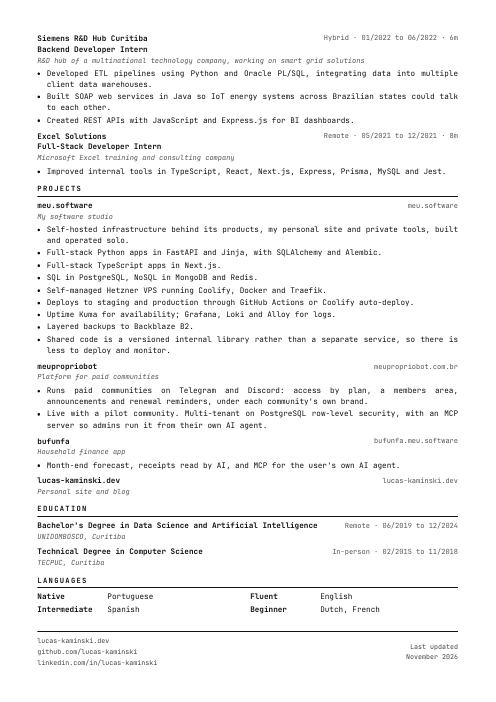
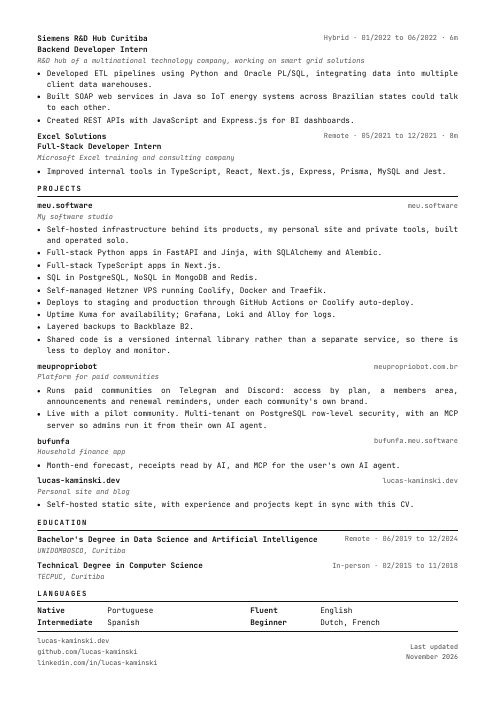
feat: bullet no projeto do site pessoal

Changed region(s): [[0.0605, 0.7179, 0.9375, 0.8974], [0.6351, 0.8376, 0.756, 0.8974], [0.4839, 0.8376, 0.5746, 0.8974]]

diff --git a/cv.html b/cv.html
@@ -186,6 +186,9 @@ building AI features in production, such as Bento's support chat.</p>
 <div class="entry">
   <div class="entry-head"><b><a href="https://lucas-kaminski.dev">lucas-kaminski.dev</a></b><span><a href="https://lucas-kaminski.dev">lucas-kaminski.dev</a></span></div>
   <div class="blurb">Personal site and blog</div>
+  <ul>
+    <li>Self-hosted static site, with experience and projects kept in sync with this CV.</li>
+  </ul>
 </div>
 
 <h2>EDUCATION</h2>
